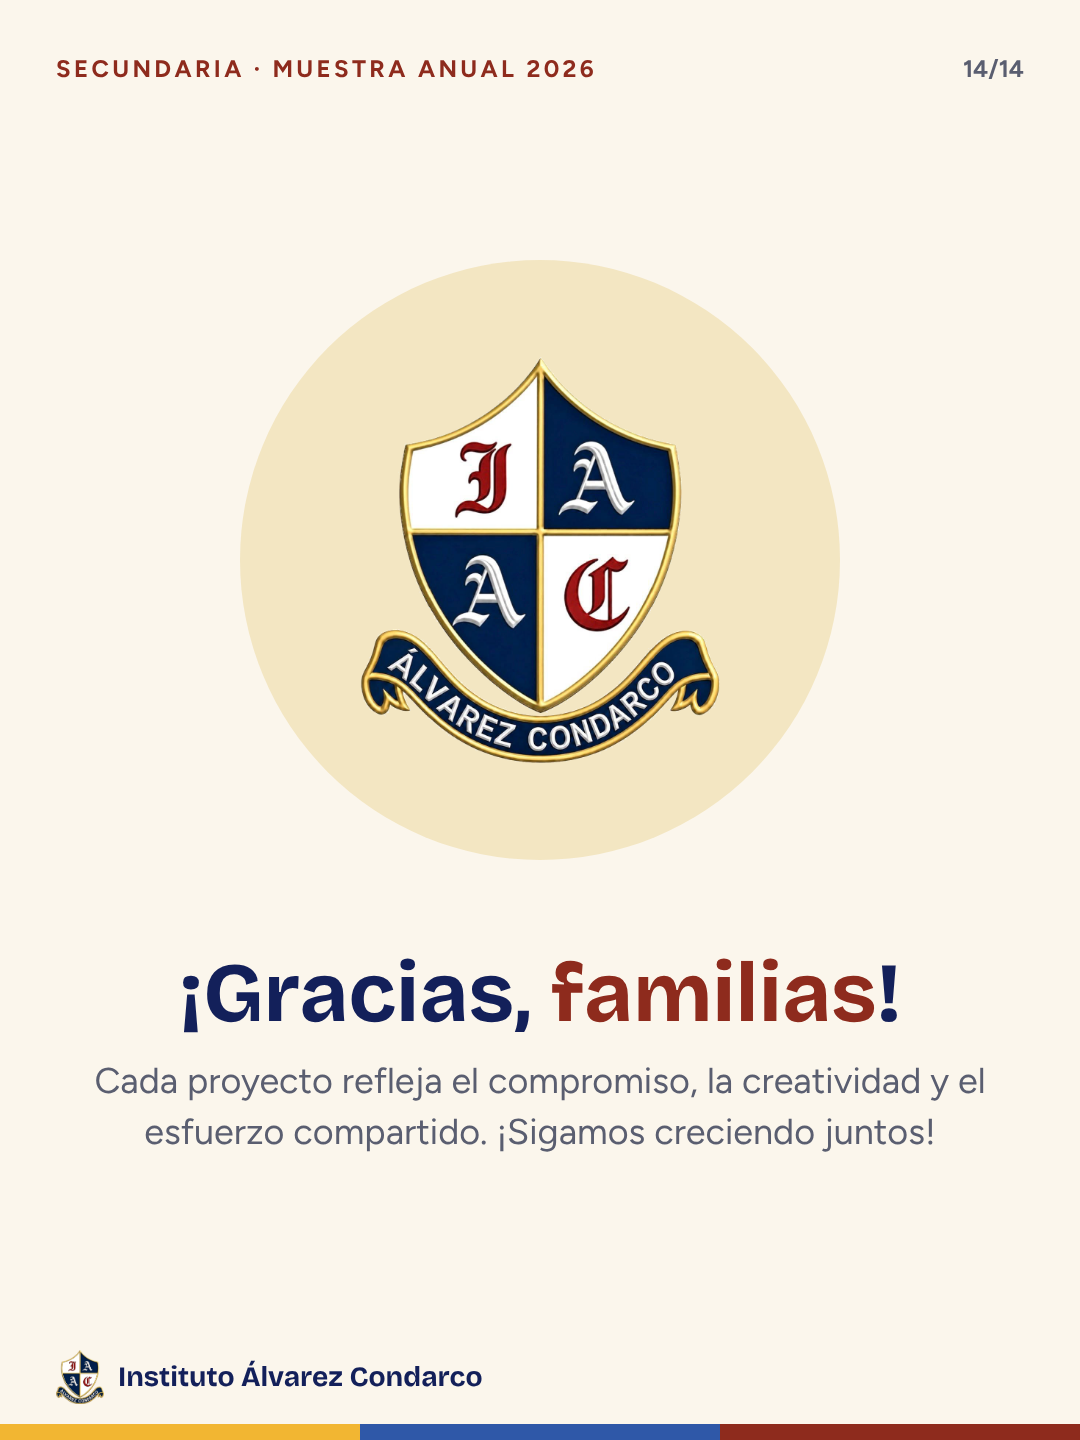
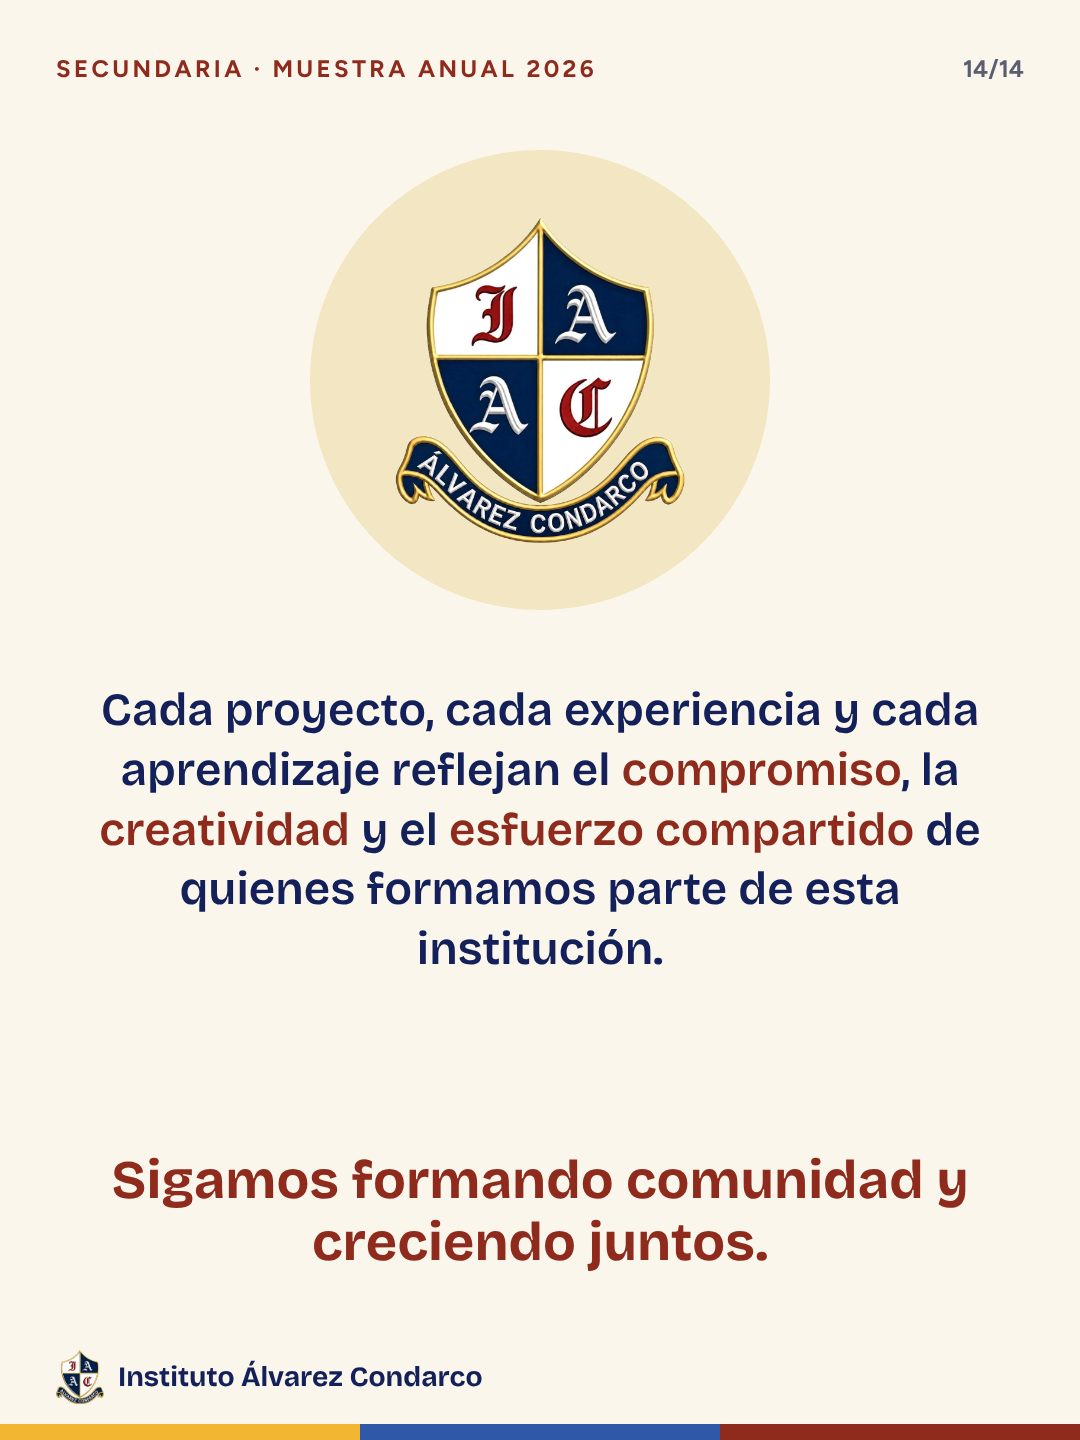
Carrusel Muestra Secundaria: cierre con la frase del folleto
Claude-Session: https://claude.ai/code/session_0159ATbsUYcGchepWZZ2HyWK

Changed region(s): [[0.0917, 0.0938, 0.9167, 0.875]]

diff --git a/instagram-reels/src/muestra-sec/PostMuestraSec.tsx b/instagram-reels/src/muestra-sec/PostMuestraSec.tsx
@@ -127,17 +127,17 @@ const PlacaFoto: React.FC<{i: number}> = ({i}) => {
 export const PLACAS_MUESTRA_SEC = PLACAS.length;
 export const PostMuestraSecFoto: React.FC<{i: number}> = ({i}) => <PlacaFoto i={i} />;
 
-/** Cierre. */
+/** Cierre: escudo y la frase del folleto de la muestra. */
 export const PostMuestraSecFin: React.FC = () => (
 	<Base n={`${PLACAS.length + 2}/${PLACAS.length + 2}`}>
-		<div style={{position: 'absolute', left: 540 - 300, top: 260, width: 600, height: 600, borderRadius: '50%', background: C.doradoClaro, display: 'flex', alignItems: 'center', justifyContent: 'center'}}>
-			<Img src={staticFile('img/escudo.png')} style={{width: 360}} />
+		<div style={{position: 'absolute', left: 540 - 230, top: 150, width: 460, height: 460, borderRadius: '50%', background: C.doradoClaro, display: 'flex', alignItems: 'center', justifyContent: 'center'}}>
+			<Img src={staticFile('img/escudo.png')} style={{width: 290}} />
 		</div>
-		<div style={{position: 'absolute', left: 56, right: 56, top: 950, textAlign: 'center', display: 'flex', flexDirection: 'column', gap: 18}}>
-			<div style={{fontFamily: DISPLAY, fontWeight: 700, fontSize: 84, lineHeight: 1.05, color: C.azul}}>
-				¡Gracias, <span style={{color: C.bordo}}>familias</span>!
-			</div>
-			<div style={{fontSize: 36, lineHeight: 1.4, color: C.tintaSuave}}>Cada proyecto refleja el compromiso, la creatividad y el esfuerzo compartido. ¡Sigamos creciendo juntos!</div>
+		<div style={{position: 'absolute', left: 70, right: 70, top: 680, textAlign: 'center', fontFamily: DISPLAY, fontWeight: 600, fontSize: 46, lineHeight: 1.3, color: C.azul}}>
+			Cada proyecto, cada experiencia y cada aprendizaje reflejan el <span style={{color: C.bordo}}>compromiso</span>, la <span style={{color: C.bordo}}>creatividad</span> y el <span style={{color: C.bordo}}>esfuerzo compartido</span> de quienes formamos parte de esta institución.
+		</div>
+		<div style={{position: 'absolute', left: 70, right: 70, top: 1150, textAlign: 'center', fontFamily: DISPLAY, fontWeight: 700, fontSize: 54, lineHeight: 1.15, color: C.bordo}}>
+			Sigamos formando comunidad y creciendo juntos.
 		</div>
 	</Base>
 );
